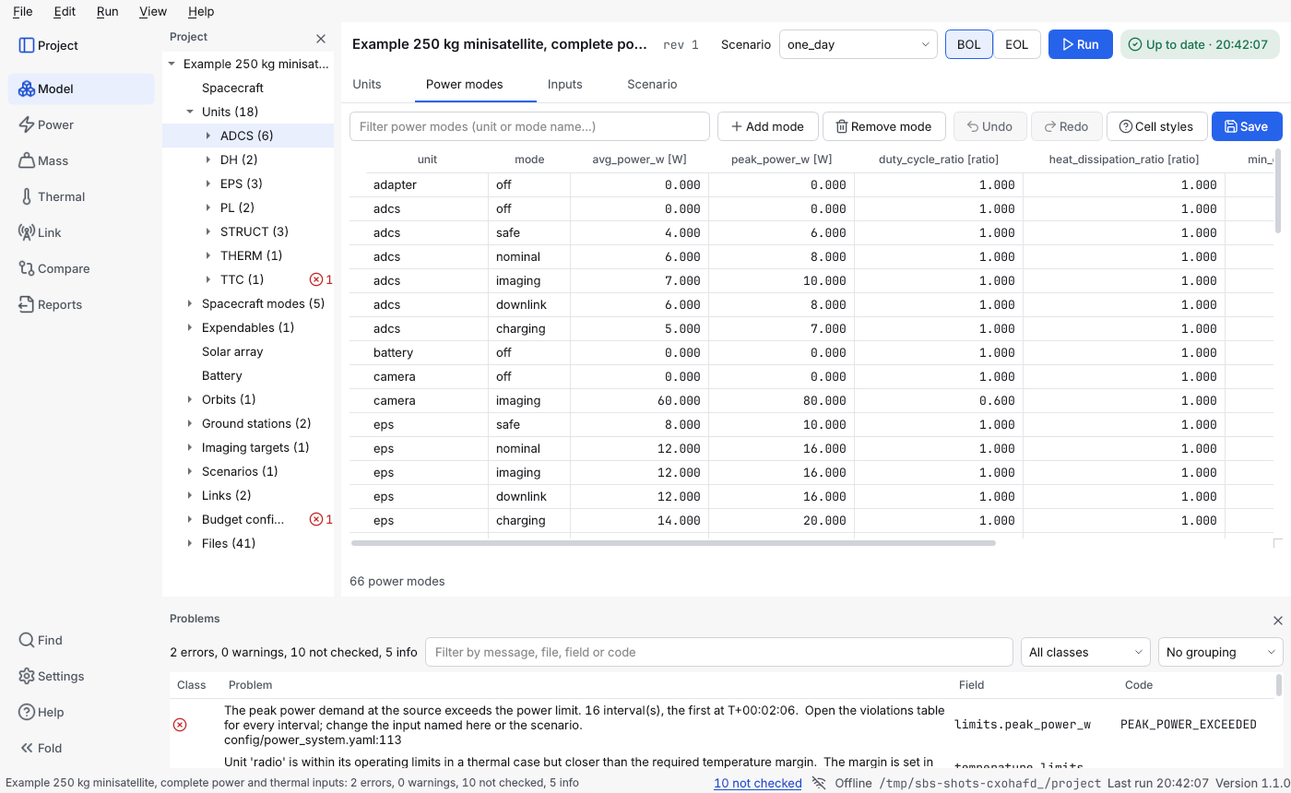
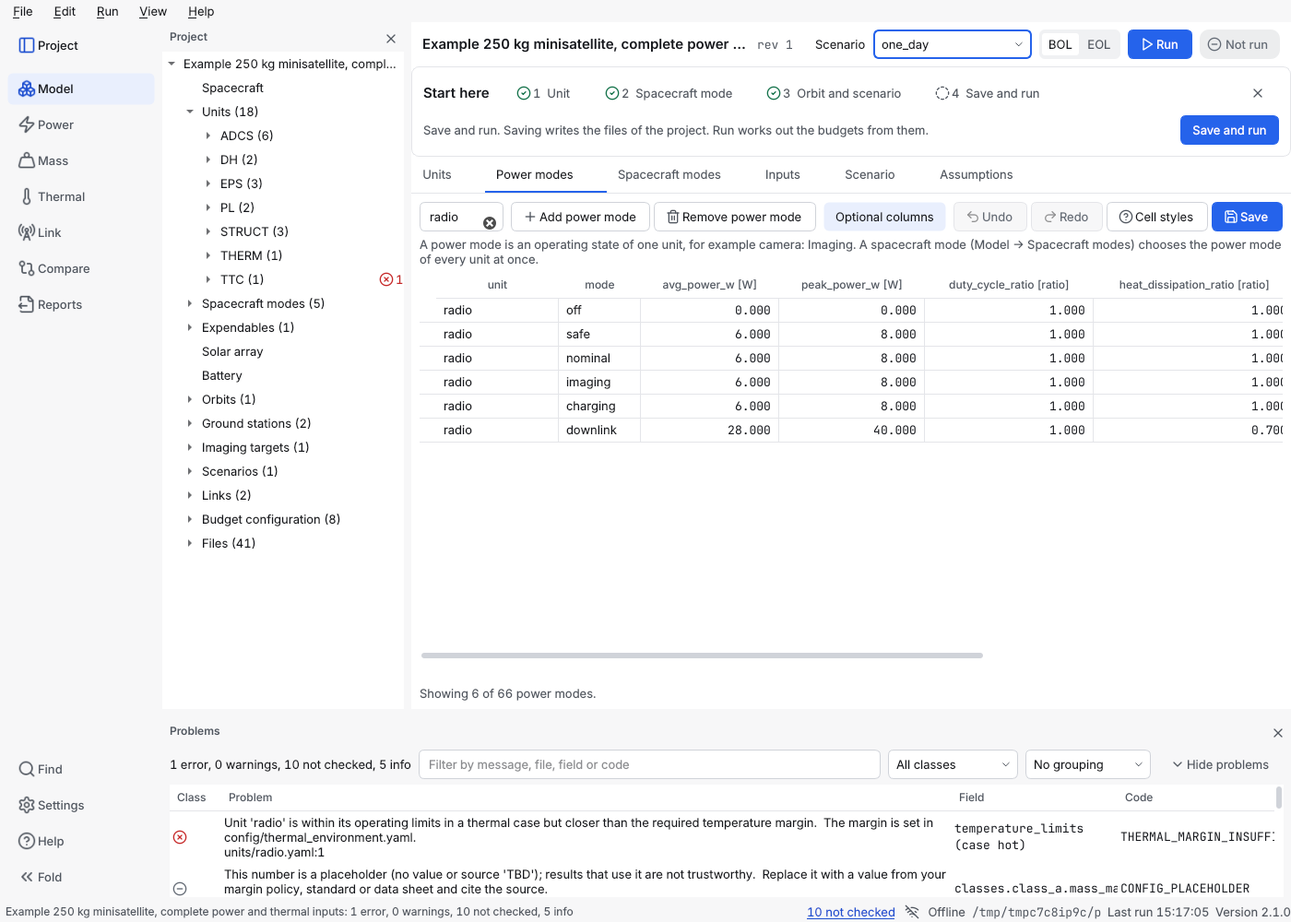
Documentation sweep after 2.1.0 (#111)
* Release 1.4.0: version bump, golden files, changelog

Version 1.4.0 in pyproject.toml, budget_core/__init__.py, the Linux spec
and Windows .iss comments, README and Getting started. Golden files
regenerated: only the tool-version lines and the one hash covering them
changed. CHANGELOG: Unreleased moved under [1.4.0] - 2026-10-21.

Claude-Session: https://claude.ai/code/session_0164xmkNRe7orEUQXA4cscBa

* Documentation after 1.4.0: architecture, window page, FAQ, troubleshooting, checklist, release recipe

Every page was checked against the program as built (commands against --help,
the examples against their expected output, links and anchors, shortcuts
against the menus). The architecture page lists the new modules; the window
page names both redo shortcuts and says where Add unit and Remove unit are;
the FAQ, tips, unit-table page and manual index no longer say a unit can only
be added as a file; troubleshooting has entries for budget new, the Add unit
form and the delete question; glossary: Blank project; install checklist: a
manual check of the blank project and Add unit; developer page: tag the merge
commit of the release pull request. Stale statuses in the UX audit and the UI
overhaul plan corrected. Docstrings of budget_cli.main and budget_core.assets
updated. No program behaviour changed.

Claude-Session: https://claude.ai/code/session_0164xmkNRe7orEUQXA4cscBa

* Add unit and Remove unit: Edit menu entries, shortcuts and Ctrl+K entries (D-187)
[…]

diff --git a/docs/user-manual/use-the-window.md b/docs/user-manual/use-the-window.md
@@ -128,7 +128,7 @@ In **Model → Scenario**, rules and segments are sentences you edit in place ([
 
 **Model → Units** has one row per unit: name, subsystem, bus, maturity, mass and the four temperature limits (the limits are *optional columns*, hidden in the focused view; the **Optional columns** button above the grid shows them); **Add unit** and **Remove unit** (also in the right-click menu, in the Edit menu and in Ctrl+K) add and remove units ([how](describe-the-spacecraft.md#how-do-i-add-a-unit)). **Power modes** has one row per power mode of every unit: average and peak power, duty cycle, heat ratio and durations, with the effective average (average times duty) beside them. **Inputs** has one row per sourced number of the configuration and the links: value, unit, source and note. The unit is in every column header; numbers show a fixed number of decimals, and the tooltip and the editor have the exact value.
 
-![The Power modes grid filtered to the radio, with a wrong cell marked and explained under the grid](../images/ui-overhaul/model-power-modes-light.png)
+![The Power modes grid filtered to the radio: the line under the toolbar says what a power mode is, and the buttons say Add power mode and Remove power mode](../images/ui-overhaul/model-power-modes-light.png)
 
 - **Type or paste.** Double-click a cell, press F2 or start typing. A value with a unit is converted (`2500 mW` is 2.5 W). **Enter** accepts and moves down, **Esc** cancels, **Tab** accepts and moves right. Copy a range from a spreadsheet and press **Ctrl+V**: the block goes in from the current cell (one value goes into every selected cell). More than one cell shows you a preview, old and new, first. Cells that cannot be edited (the unit id, the computed average) are left out and counted.
 - **Fill down and clear.** Select a cell and the cells below it and press **Ctrl+D**. **Delete** empties the cells that may be empty (an optional field); a field the model needs keeps its value.
@@ -137,7 +137,7 @@ In **Model → Scenario**, rules and segments are sentences you edit in place ([
 - **Save.** **Save** (the button or Ctrl+S) writes only the files that changed, in place: comments, key order and the fields the grids do not show stay as they were. A file you added (a unit, a spacecraft mode, a scenario with its orbit, an expendable, a ground station, an imaging target or a link) is created, and the file of a unit, a spacecraft mode, an expendable, a ground station, an imaging target or a link you removed is deleted, after a question. If a file cannot be changed in place and has comments, it asks before writing the file whole without them. It refuses to overwrite a file that changed on disk after the grid loaded it, and says which. Closing, opening another project or quitting asks first when edits are not saved.
 - **Spacecraft modes.** *Model → Spacecraft modes* has one row per unit in every spacecraft mode and one editable cell: the power mode the unit is in. The cell is a **drop-down of that unit's power modes** (double-click, F2 or just start typing opens it), so a name that does not exist cannot be chosen; a name pasted from a spreadsheet that the unit has no power mode of is refused (with the list of its power modes) and nothing is written. A line under the toolbar says what a row is. **Add spacecraft mode** and **Remove spacecraft mode** add and remove a whole spacecraft mode ([how](describe-the-spacecraft.md#how-do-i-add-a-spacecraft-mode)).
 - **Add or remove a power mode.** A *power mode* is an operating state of one unit (camera: Imaging); a *spacecraft mode* chooses the power mode of every unit at once. *Power modes → Add power mode* adds a power mode to the unit of the current row; *Remove power mode* removes the current one (a unit keeps at least one). Both can be undone. Removing a mode that a spacecraft mode uses is allowed, and the Problems panel then names the spacecraft mode.
-- **The toolbar.** Above every grid: the **filter** (it keeps the rows that contain the text in any column; a paste goes to the rows shown), the tools of the page (*Add mode*, *Remove mode*, and in *Inputs* **Placeholders only**), **Optional columns** (on the grids that have columns a row may leave empty: shown in the full view, hidden in the focused view; the files and the checks do not depend on it), **Undo**, **Redo**, **Cell styles** and **Save**, the blue button. The first column (the unit, power mode or input) stays in view when you scroll the grid sideways, and a row with a wrong cell is marked in that column even when the cell itself is out of view.
+- **The toolbar.** Above every grid: the **filter** (it keeps the rows that contain the text in any column; a paste goes to the rows shown), the tools of the page (*Add unit* / *Remove unit*, *Add power mode* / *Remove power mode*, *Add spacecraft mode* / *Remove spacecraft mode*, and in *Inputs* **Placeholders only**), **Optional columns** (on the grids that have columns a row may leave empty: shown in the full view, hidden in the focused view; the files and the checks do not depend on it), **Undo**, **Redo**, **Cell styles** and **Save**, the blue button. The first column (the unit, power mode or input) stays in view when you scroll the grid sideways, and a row with a wrong cell is marked in that column even when the cell itself is out of view.
 - **Cell styles.** The **Cell styles** button opens the legend. A *not checked* cell with `n/a` in the units grid means no temperature limit (or no heat ratio) is given, so the unit is not checked against it. In *Inputs* a **placeholder** (no value, or the source `TBD`) is italic with a dashed border and a hollow marker: type its value and its source, and the style goes when both are there. **Right-click → Mark as sourced…** takes the cursor to what is missing.
 
 A unit in the project tree opens its power modes in this grid (Enter, double-click, or **Ctrl+M**).

diff --git a/docs/DESIGN.md b/docs/DESIGN.md
@@ -145,7 +145,7 @@ The diagram is the full view. In the focused view (the default, below) the inspe
 - **Start here** (D-190). A two-line `Card` under the top bar for a project that is not finished: the four steps (a unit, a spacecraft mode, an orbit and a scenario, save and run) as ghost buttons with a name and an icon (a dashed circle, or a checked one in the pass colour: the icon and the name carry the state, never the colour alone), and under them a line that explains the step to do now with its one primary button. A step that needs an earlier one is disabled and its tooltip says which. The card reports a minimum height of 0, so it never raises the minimum window size (a test holds it to 650 px). Progress is derived from the files on screen, not stored. It goes when all steps are done; the × hides it (kept as `window/start_here`) and **Help → Start here** (Ctrl+K) shows it again.
 - **Project tree.** Rows by name, ids in the tooltip; units grouped by subsystem above eight units; a badge only for errors and warnings, rolled up on a folded group and never repeated on an open one; the raw file list adds nothing to its group (D-158).
 - **Grids** (D-159). A grid is a `QTableView` over a model of the editable document, painted by the one cell delegate: numbers with fixed decimals in the mono font, the unit in the header, *not given* (a missing limit or heat ratio) as *not checked* with `n/a`, a **placeholder** (italic, dashed border, hollow marker) for a sourced number without a value or with the source `TBD`, a wrong cell as *fail* with its reason in the tooltip. The toolbar is above the grid (D-176): the filter, the page's own tools, Undo, Redo, Cell styles and Save (the one primary button); below it are the line of what is wrong and the line of feedback; no message box. The first column (the unit, power mode or input) is read-only and **frozen**: `frozen_view.GridView` lays a second view of the same model and selection over the left edge, so the row stays named when the grid scrolls sideways; a wrong cell marks its row in that column. A repaint is cheap on purpose (D-177): the delegate asks a model for `CELL_ROLE`, one tuple per cell, instead of five roles through the proxy.
-- **Scenario editor** (D-160). Rules and segments are sentences made of their controls (mode, *during every pass over / throughout every eclipse / throughout every sunlit period*, site, lead and lag); icon buttons (chevron up, chevron down, bin) order and remove the rules (a later rule wins), each rule is a card; the editor edits the shared document, so it has the same undo, Save and dirty marker as the grids. The editor and the tables get more of the page than the timeline strip.
+- **Scenario editor** (D-160). Rules and segments are sentences made of their controls (mode, *during every pass over / throughout every eclipse / throughout every sunlit period*, site, lead and lag); icon buttons (chevron up, chevron down, bin) order and remove the rules (a later rule wins), each rule is a card; the editor edits the shared document, so it has the same undo, Save and dirty marker as the grids. The editor and the tables get more of the page than the timeline strip. The start, duration and step are fields at the top of the editor (D-224); the tabs under the strip are *Rules and segments*, *Eclipses*, *Passes* (with a station filter), *Statistics* and *Mode timeline*. The two mode pages have a muted line under the toolbar that says what a row is, and every button names its mode (*Add power mode*, *Add spacecraft mode*).
 - **Results pages** (D-178). The banner of a page of results is `Banner` (kinds *stale*, *failed*, *incomplete*): an icon, a sentence, once at the top. *Power → Timeline* and *Link → Passes* have a toolbar of compact buttons (the violation arrows are icons with a tooltip and a name; *Compute* and *Export…* have text) and a `CollapseButton` that folds the table pane away. The painted plots take their margins, gaps and bars from the theme (`PLOT_MARGINS`, `STRIP_*`, applied by `plot_metrics`), their labels in the small type size and their numbers in the mono font.
 - **Timeline plot** (D-162). Legend entries are buttons (click hides, Shift-click solos; a hidden entry is struck through); violations are bars in the *fail* colour along the top of every panel with the selected one shaded; the time axis is an object (elapsed, UTC, orbit number) that the plot asks for ticks and a title.
 - **Budget tables** (D-163). A header longer than 14 characters breaks into two lines; the totals row (`emphasise_last_row` of the report table) is semibold with a line above; the timeline tables use the cell delegate with `fill_table(numeric=…, states=…)`.

diff --git a/docs/user-manual/scenarios.md b/docs/user-manual/scenarios.md
@@ -108,7 +108,9 @@ It writes `<id>_environment.json`, `<id>_eclipses.csv`, `<id>_passes.csv`, `<id>
 
 ### Statistics of the eclipses and the passes
 
-After **Compute**, the **Statistics** tab gives a quick insight without a spreadsheet. Above the table: the number of eclipses, the shortest, the mean and the longest, the share of the scenario in eclipse and the longest stretch of sunlight. The table has a row for every ground station and imaging target: the number of passes, the time in contact (seconds and percent of the scenario), the shortest, mean and longest pass, the **largest gap** (the longest time without a pass, the start and the end of the scenario included) and the lowest, mean and highest peak elevation. A pass cut by the start or the end of the scenario counts with its clipped length, and an imported pass without a peak elevation is left out of the elevation figures (`n/a`). The **Passes** tab has a **Passes of** drop-down to show the passes of one station or target, or of all. `<id>_environment.json` carries the same figures under `statistics`. They are read from the computed eclipses and passes, so they change no result.
+After **Compute**, the **Statistics** tab gives a quick insight without a spreadsheet. Above the table: the number of eclipses, the shortest, the mean and the longest, the share of the scenario in eclipse and the longest stretch of sunlight. The table has a row for every ground station and imaging target: the number of passes, the time in contact (seconds and percent of the scenario), the shortest, mean and longest pass, the **largest gap** (the longest time without a pass, the start and the end of the scenario included) and the lowest, mean and highest peak elevation. A pass cut by the start or the end of the scenario counts with its clipped length, and an imported pass without a peak elevation is left out of the elevation figures (`n/a`). ![The Statistics tab after Compute: the eclipse figures above a table with a row per ground station and imaging target](../images/ui-overhaul/scenario-statistics-light.png)
+
+The **Passes** tab has a **Passes of** drop-down to show the passes of one station or target, or of all. `<id>_environment.json` carries the same figures under `statistics`. They are read from the computed eclipses and passes, so they change no result.
 
 ## How do I use orbit data from SpaceMissionStudio?
 
@@ -119,7 +121,7 @@ Set `environment_source: spacemissionstudio` and `import_dir:` (a folder inside 
 
 In **Model → Scenario**, the lower part shows the rules as sentences you can change in place:
 
-![Model → Scenario with the model choices, the sites and the rules as sentences](../images/ui-overhaul/model-scenario-light.png)
+![Model → Scenario: the start, duration and step, the default mode, the model choices, the sites and the rules as sentences](../images/ui-overhaul/model-scenario-light.png)
 
 - A rule reads *Downlink during every pass over gs_north*, and for a pass rule *Start it 30 s before the pass and keep it 0 s after it*. Its parts are the controls: the spacecraft mode, **during every pass over** / **throughout every eclipse** / **throughout every sunlit period**, the site, and the lead and lag (pass rules only). *Throughout every eclipse* keeps the mode for the whole eclipse, from entry to exit; to limit a mode to part of an eclipse use a manual segment, or a pass rule. Hover over the mode and the *when* drop-down for the same hints. Changing the kind keeps the rule valid (a pass rule gets a site; the other kinds lose the site, lead and lag).
 - The order matters: **a later rule wins** over an earlier one, so every row has an **up** and a **down** arrow (hover for the tooltip). **Add rule** adds a pass rule with the default mode and the first listed site; the **bin** removes one.

diff --git a/docs/FILE_FORMAT.md b/docs/FILE_FORMAT.md
@@ -37,7 +37,7 @@ Power mode: `name`, `avg_power_w`, `peak_power_w` (>= average), `duty_cycle_rati
 - **Text** that consists of spaces only is refused where a name or text is expected (an empty string is still fine for optional text such as `description`).
 - **Numbers.** A yes/no value (`true`) is never a number, also inside a list (`position_m: [true, 0, 0]`). A number written as text (`strings: "3"`, `value: "3"`) is refused in a field that has no unit; in a field with a unit suffix a text such as `"10 cm"` is read with its unit. Digits are ASCII only. Unit labels as shown in the tool read back: `m2`, `m^2`, `kg m2`, `W/m2` all work. Logarithmic units need their capitals (`dBi`, `dBW`, `dBm`, `dB`, `dB/K`). A temperature difference (`delta_degC`) is refused for an absolute temperature (`_k` fields), and `degC` is refused for a margin (`temperature_margin_k`, a difference): write `5 K` or `5 delta_degC`.
 - **Times** are UTC in the form `2026-01-02T03:04:05Z` (also a space instead of `T`, fractional seconds, or the date alone); week dates and the compact form `20260102T030405` are refused. Years 1950 to 2100 are accepted.
-- **Ranges** (`CONFIG_VALUE_INVALID`): antenna `gain_dbi` -50 to 100 dBi, `g_over_t_dbk` -100 to 100 dB/K, `required_ebn0_db` -20 to 60 dB, attenuation `loss_db` 0 to 100 dB, next to the ranges of earlier versions.
+- **Ranges** (`CONFIG_VALUE_INVALID`): antenna `gain_dbi` -50 to 100 dBi, `g_over_t_dbk` -100 to 100 dB/K, `required_ebn0_db` -20 to 60 dB, attenuation `loss_db` 0 to 100 dB, an Eb/N0 entry's `target_ber` and `target_fer` above 0 and below 1, next to the ranges of earlier versions.
 - **Duplicates** are errors (`DUPLICATE_NAME`): two Eb/N0 entries with the same modulation and coding, two attenuation entries with the same name and elevation, two mass limits with one name that apply to the same phase (a limit without a phase applies to every phase).
 - **Temperature limits**: when both bands are given, the survival band must enclose the operating band (`survival_min_k <= operating_min_k` and `survival_max_k >= operating_max_k`).
 - **Scenario options that are not used** get `SCENARIO_OPTION_IGNORED` (warning): `import_dir` with `environment_source: elements`; `orbit`, and a `shadow_model` other than `cylindrical`, with `environment_source: spacemissionstudio` (so do an `earth_model` other than `wgs84` and an `irradiance_model` other than `constant`). An `earth_model` other than `wgs84` on a scenario whose orbit is a TLE gets `MODEL_CHOICE_IGNORED` (warning): a TLE is propagated on WGS-72, the set SGP4 is defined on.

diff --git a/README.md b/README.md
@@ -74,7 +74,7 @@ The reports in `out/` are the first result. [Getting started](docs/getting-start
 - **Mass budget**: roll-up with margins, centre of gravity and inertia, mission phases and mass limits.
 - **Thermal budget**: heat dissipation per unit, subsystem and mode, and a steady-state node model with hot and cold cases checked against unit temperature limits.
 - **Link budget**: EIRP, path loss, G/T, C/N0, Eb/N0 and margin at chosen elevations, and over every ground-station pass with the data rate that closes and the data volume per pass and per day; uplink and downlink; several links per project.
-- **Scenarios**: eclipses and passes from a two-line element set (TLE) or orbital elements, a mode timeline built from rules (for example "downlink during every pass") and segments; orbits can also be imported from [SpaceMissionStudio](docs/ENVIRONMENT_FORMAT.md).
+- **Scenarios**: eclipses and passes from a two-line element set (TLE) or orbital elements, a mode timeline built from rules (for example "downlink during every pass") and segments; the start, duration and step are fields in the window; a Statistics tab gives the shortest, mean and longest eclipse and pass, the contact time and the largest gap per ground station; orbits can also be imported from [SpaceMissionStudio](docs/ENVIRONMENT_FORMAT.md).
 - **Reports**: XLSX, PDF and DOCX in classic review layouts, CSV for every table and series, JSON for other tools. Every output carries provenance (tool and library versions, project revision, scenario, time, user) and is reproducible byte for byte.
 - **Traceable**: select any number in a budget table and **Explain** it (Ctrl+Shift+I, or `budget explain`): the equation, the inputs with the file each came from and the steps. An input can record its **source** and a **status** (sourced, estimate, illustrative, tbd) in the window or with `budget source`. The **Assumptions** page (Ctrl+Shift+A, or `budget assumptions`) lists everything the tool applies next to your own numbers, and every report says which models it used. `budget verify` checks that a project is the one a result came from.
 - **Choosable models**: a scenario chooses its shadow geometry (cylindrical or conical), its Earth constants (WGS-84 or WGS-72) and its array irradiance (constant or seasonal) from drop-downs in the scenario editor; the models that are fixed are listed with the reason (`budget choices`, [model choices](docs/models/choices.md)).

diff --git a/docs/glossary.md b/docs/glossary.md
@@ -21,6 +21,9 @@ Every domain term, abbreviation and tool-specific word used in this repository's
 ## B
 
 <a id="blank-project"></a>
+<a id="ber-and-fer"></a>
+**BER and FER**: bit error rate and frame error rate, the share of bits or frames received wrongly. An entry of the Eb/N0 table may record the error rates its required [Eb/N0](#ebn0) is quoted for (`target_ber`, `target_fer`); you give them from the standard or data sheet, the tool never supplies one and no result depends on them.
+
 **Blank project**: a project with one bus, every configuration number a [placeholder](#placeholder), empty tables and no units, modes, orbits, scenarios or links: a spacecraft you describe yourself instead of a copy of a sample. Made by `budget new` or by the *Blank project* choice of the guided wizard. See [create a project](user-manual/create-a-project.md#how-do-i-start-a-blank-project).
 
 <a id="body-frame"></a>
@@ -126,6 +129,9 @@ Every domain term, abbreviation and tool-specific word used in this repository's
 ## L
 
 <a id="link-margin"></a>
+<a id="largest-gap"></a>
+**Largest gap**: for a ground station or imaging target, the longest stretch of the scenario with no pass, the start and the end of the scenario included. It is one of the figures of the Statistics tab ([scenarios](user-manual/scenarios.md#statistics-of-the-eclipses-and-the-passes)).
+
 **Link margin**: the [Eb/N0](#ebn0) you have minus the Eb/N0 required, in dB. A link **closes** at a data rate when its margin is at least the **required margin** you set in the link file (a safety allowance). See [link budget](user-manual/link-budget.md).
 
 ## M
@@ -215,6 +221,8 @@ Every domain term, abbreviation and tool-specific word used in this repository's
 
 <a id="soc"></a>
 **State of charge (SoC)**: how full the battery is, as a share of its capacity.
+
+**Statistics (of a scenario)**: the Statistics tab after Compute: the number, shortest, mean and longest eclipse, the share of the scenario in eclipse and the longest sunlight, and per station the number of passes, the contact time, the shortest, mean and longest pass, the [largest gap](#largest-gap) and the peak elevations. Read from the computed eclipses and passes; they change no result.
 
 **Static budget**: a budget per mode without an orbit: the classic table for early design. Compare **time-domain budget**: over a scenario.
 

diff --git a/docs/user-manual/describe-the-spacecraft.md b/docs/user-manual/describe-the-spacecraft.md
@@ -89,7 +89,7 @@ Capitals matter in units, as everywhere (`mW` is not `MW`): write logarithmic un
 
 A [**spacecraft mode**](../glossary.md#spacecraft-mode) (safe, nominal, imaging, downlink, charging) says which power mode each unit is in.
 
-**In the window:** press **Ctrl+Shift+M** (**Edit → Add spacecraft mode**, or *Add spacecraft mode* in Ctrl+K), or open **Model → Spacecraft modes** and press **Add mode**. The project needs at least one unit first. A form asks for the name, the id (suggested from the name; it becomes the file name `modes/<id>.yaml`), an optional description and **where the assignments start from**: *every unit off* (a unit with no power mode called `off` starts in its first one, and the message says how many did) or *a copy of* another mode. Then set the power mode of each unit in the grid, one row per unit: choose one of that unit's power modes from the drop-down of the cell, or paste a column from a spreadsheet; a pasted name the unit does not have is refused with the list of the ones it has. **Save** (Ctrl+S) writes the file; adding is one undo step.
+**In the window:** press **Ctrl+Shift+M** (**Edit → Add spacecraft mode**, or *Add spacecraft mode* in Ctrl+K), or open **Model → Spacecraft modes** and press **Add spacecraft mode**. The project needs at least one unit first. A form asks for the name, the id (suggested from the name; it becomes the file name `modes/<id>.yaml`), an optional description and **where the assignments start from**: *every unit off* (a unit with no power mode called `off` starts in its first one, and the message says how many did) or *a copy of* another mode. Then set the power mode of each unit in the grid, one row per unit: choose one of that unit's power modes from the drop-down of the cell, or paste a column from a spreadsheet; a pasted name the unit does not have is refused with the list of the ones it has. **Save** (Ctrl+S) writes the file; adding is one undo step.
 
 **Remove spacecraft mode** (**Ctrl+Shift+Backspace**, **Edit → Remove spacecraft mode**, or the button) removes the mode of the row with the cursor. It is refused while a scenario names the mode (as its default mode, in a rule or in a segment): change the scenario first. Save asks before it deletes the file.
 

diff --git a/src/budget_core/guide/chapters/08-scenarios.md b/src/budget_core/guide/chapters/08-scenarios.md
@@ -12,11 +12,15 @@ Three choices of a scenario change the environment and the array output, each wi
 
 ## Mode timeline
 
-`default_mode` is active unless a rule or a segment says otherwise. Rules switch modes automatically (`in_eclipse`, `during_pass` of a site, with a lead and lag time); segments set a mode for a fixed interval. The **Scenario** tab shows the resulting timeline and lets you edit rules and segments.
+`default_mode` is active unless a rule or a segment says otherwise. Rules switch modes automatically (`in_eclipse`, `during_pass` of a site, with a lead and lag time); segments set a mode for a fixed interval. The **Scenario** page shows the resulting timeline and lets you edit rules and segments as sentences: a rule reads *Downlink during every pass over gs_north*, or *Imaging throughout every eclipse* (the mode lasts the whole eclipse; use a manual segment to limit it).
 
 ## Time grid
 
-`start_utc`, `duration_s` and `step_s` define the grid on which the time-domain budgets are evaluated. Eclipses and mode segments are overlapped exactly with each step, not sampled. A week at 1 s resolution with 200 units is computed in about 10 seconds.
+`start_utc`, `duration_s` and `step_s` define the grid on which the time-domain budgets are evaluated. Eclipses and mode segments are overlapped exactly with each step, not sampled. In the window the three are fields at the top of the scenario editor (each change is one undo step). A week at 1 s resolution with 200 units is computed in about 10 seconds.
+
+## Statistics
+
+After **Compute**, the **Statistics** tab gives the number, shortest, mean and longest eclipse, the share of the scenario in eclipse and the longest stretch of sunlight, and for every ground station and imaging target the number of passes, the time in contact, the shortest, mean and longest pass, the largest gap without a pass and the lowest, mean and highest peak elevation. The **Passes** tab can show one station or all. The same figures are in `<id>_environment.json` under `statistics`.
 
 ## Imported environments
 

diff --git a/docs/faq.md b/docs/faq.md
@@ -70,6 +70,18 @@ Yes: the **Edit** menu has **Add expendable** (Ctrl+Shift+X), **Add ground stati
 
 No: turn on **View → Open with a single click** (also in *Settings*). A click on an item of the project tree then opens it, and a click on a selected cell of a grid edits it. The Problems panel still jumps with a double-click or Enter.
 
+### What is the difference between a power mode and a spacecraft mode?
+
+A **power mode** is an operating state of one unit (the camera: *Off*, *Standby*, *Imaging*) with its own average and peak power; you add it under *Model → Power modes* (**Add power mode**). A **spacecraft mode** is a state of the whole spacecraft (*Safe*, *Imaging*, *Downlink*) that says which power mode each unit is in; you add it under *Model → Spacecraft modes* (**Add spacecraft mode**, Ctrl+Shift+M). A scenario switches between spacecraft modes ([glossary](glossary.md#power-mode)).
+
+### How long is the longest eclipse, and how long does a station go without seeing the satellite?
+
+Press **Compute** on *Model → Scenario* and open the **Statistics** tab: the eclipse line gives the shortest, mean and longest eclipse and the longest stretch of sunlight, and every ground station and imaging target has a row with its passes, contact time and **largest gap** ([scenarios](user-manual/scenarios.md#statistics-of-the-eclipses-and-the-passes)). The same figures are in `<id>_environment.json` under `statistics`.
+
+### Can I change the start time, the duration or the step in the window?
+
+Yes. They are the first fields of the scenario editor (*Model → Scenario*); each change is one undo step, and a value the model refuses stays as typed with its problem shown under the editor.
+
 ### Why is my power timeline `n/a`?
 
 It needs a complete `config/power_system.yaml`, a scenario and a mission phase. See [troubleshooting](troubleshooting.md#bol-na-inputs-missing-see-the-problems-below).

diff --git a/docs/tips.md b/docs/tips.md
@@ -12,7 +12,8 @@ Shortcuts, working habits and ways to connect System Budget Studio to your other
 - **Pin a second cursor** on a plot with a click to read the difference between two times; Escape removes it.
 - **Give a plot the whole page**: on *Power → Timeline* and *Link → Passes* the **Table** button folds the table under the plots away.
 - **Make the window easier to read**: *View → UI size* (90 to 125 %), *View → Theme*, *View → Reduce motion*; a small laptop screen (1366 x 768) fits every size up to 110 %.
-- **Explore with a coarse time step.** While you are trying ideas, set `step_s: 60` in the scenario; the results do not depend on the step in a way that hides a violation, so the numbers stay honest. Set it back for the final run.
+- **Read the Statistics tab before you read the plots**: after **Compute** it gives the longest eclipse, the share of the orbit in eclipse and the largest gap of every station, which is what most first questions about a scenario are.
+- **Explore with a coarse time step.** While you are trying ideas, set the **Step** field of *Model → Scenario* (or `step_s: 60` in the file) to 60 s; the results do not depend on the step in a way that hides a violation, so the numbers stay honest. Set it back for the final run.
 - **Get supplier data in without typing**: export the unit power modes with `budget units-export`, let the supplier fill the table, and import it with `budget units-import` (a preview first; `--apply` writes) ([unit tables](user-manual/unit-tables.md)).
 - **Run only what you need**: `--budget power`, `--report csv`, `--no-plots` make a run much faster.
 - **Start from an example or a blank project**, not from an empty folder: copy the closest one from [`examples/`](../examples/README.md) and replace the numbers, or `budget new` and add your units.

diff --git a/docs/models/provenance.md b/docs/models/provenance.md
@@ -23,7 +23,7 @@ The JSON files also list every input file with its size and hash (`provenance.in
 2. The data is written as one line of JSON with sorted keys, no spaces and ASCII only; numbers are written in their shortest exact form.
 3. The SHA-256 of that line is the digest.
 
-Comments, key order, spacing, file names other than the ids, and the folder the project lives in do not enter, and neither do the sources and statuses of the inputs (`provenance:` and `status`, D-213): saying where a number came from is not changing the number. The schema version of a file does enter, so the digest of a project changes once, with the release that moved the file versions up (2.0.0), and not again when its inputs are marked. Because the digest is taken from what the tool *loaded*, two projects written differently but meaning the same give the same digest, and a typo in a comment does not break reproducibility.
+Comments, key order, spacing, file names other than the ids, and the folder the project lives in do not enter, and neither do the sources and statuses of the inputs (`provenance:` and `status`, D-213): saying where a number came from is not changing the number. The schema version of a file does enter, so the digest of a project changes with a release that moves a file version up (2.0.0 for every kind, 2.1.0 for the Eb/N0 table), and not when its inputs are marked. Because the digest is taken from what the tool *loaded*, two projects written differently but meaning the same give the same digest, and a typo in a comment does not break reproducibility.
 
 ## Checking a result: `budget verify`
 

diff --git a/CHANGELOG.md b/CHANGELOG.md
@@ -4,6 +4,8 @@ All notable changes to System Budget Studio, newest first. The format follows [K
 
 ## [Unreleased]
 
+- **Documentation sweep after 2.1.0.** The README, the user manual (scenarios, the window, describing the spacecraft, link budget, command line), the FAQ (the two kinds of mode, the eclipse and pass statistics, editing the time span), the tips, the glossary (*BER and FER*, *Largest gap*, *Statistics*), the troubleshooting entry on the inputs digest, the file format, the model pages, the architecture and design notes and two chapters of the in-app guide (scenarios, link budget) are brought up to date with the program as built. Three screenshots are retaken (the scenario page with its new fields, the Power modes page, and the new Statistics tab). No code changed.
+
 ## [2.1.0] - 2026-11-03
 
 A usability and quick-insight release, from the feedback of a systems engineer who tried the tool on a real mission. **No result changed**: a project gives the same numbers as with 2.0.0. What changes for you: the scenario's start, duration and step are fields in the window; a new Statistics tab and a station filter answer the usual questions about eclipses and passes without a spreadsheet; the two kinds of mode are named apart and the rules read more clearly; an Eb/N0 entry can record the error rate it is for. The Eb/N0 table goes up to schema version 3 (older files read unchanged), so the inputs digest of a project with a table is a new value once more ([changes.md](docs/changes.md)).
